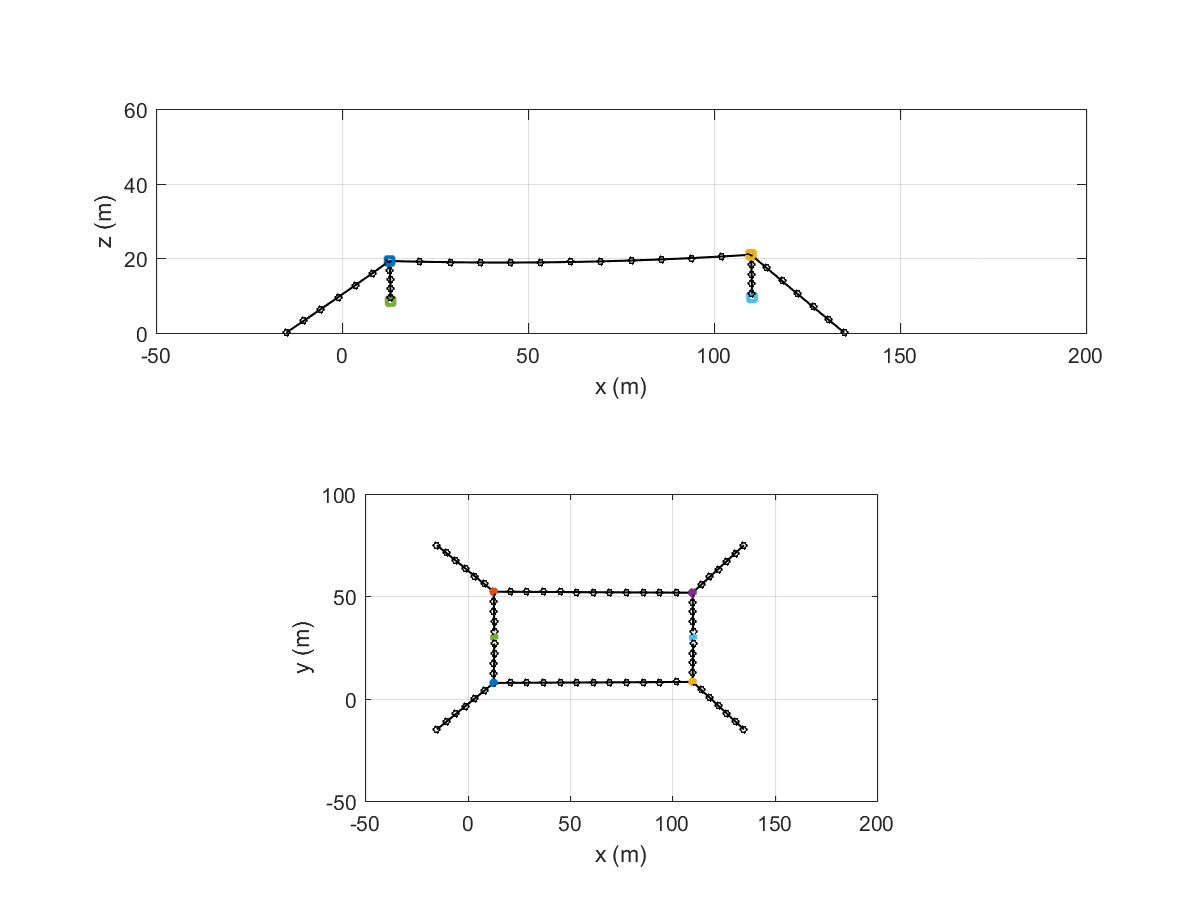
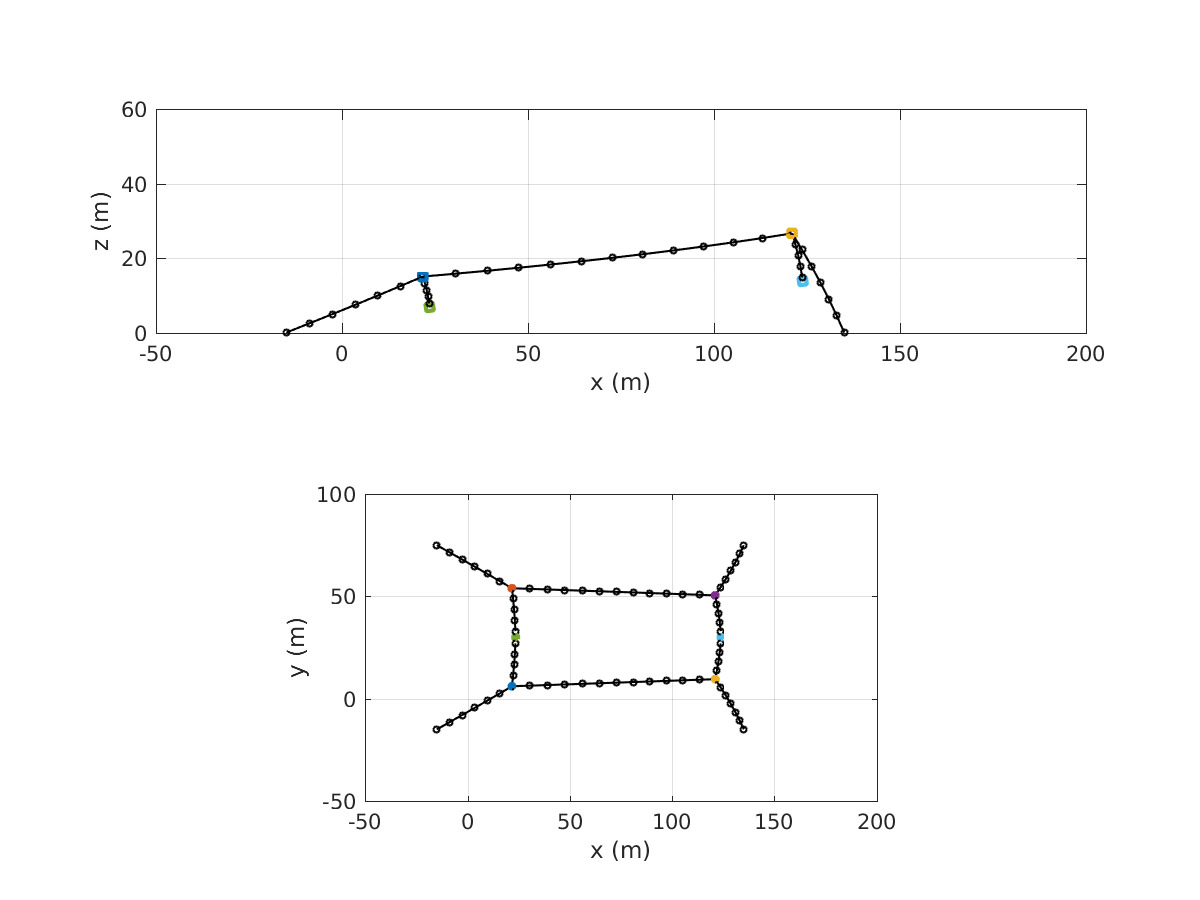
modify the angle used in the cosine correction to thrust forces

diff --git a/TargetFunctions/Forces/addCFD.m b/TargetFunctions/Forces/addCFD.m
@@ -25,7 +25,8 @@ for i = 1:size(BodiesThatAreTurbines,2)
     
     ThrustMagnitude = sqrt(ThrustFromCFD(i,1)^2+ThrustFromCFD(i,2)^2+ThrustFromCFD(i,3)^2);
     TorqueMagnitude = sqrt(TorqueFromCFD(i,1)^2+TorqueFromCFD(i,2)^2+TorqueFromCFD(i,3)^2);
-    
+    ThrustVector    = ThrustFromCFD(i,:)' ./ norm(ThrustFromCFD(i,:));
+
     % Angle between thrust vector and nominal turbine orientation
     CosTheta1 = dot(ThrustFromCFD(i,:)',TurbineBodyFixedFlowAxis)/ThrustMagnitude;
     
@@ -35,10 +36,26 @@ for i = 1:size(BodiesThatAreTurbines,2)
     % Angle between nominal turbine orientation and current turbine orientation
     CosTheta2 = dot(TurbineUnitVector,TurbineBodyFixedFlowAxis);
     
-    % Adjusted Thrust and Torque magnitudes
-    AdjThrust = CosTheta2*MaxThrust*TurbineUnitVector;
-    AdjTorque = CosTheta2*MaxTorque*TurbineUnitVector;
+    % Angle between initial turbine thrust unit vector (from the CFD
+    % calculation) and the iterating turbine unit vector (changing during the Newton solver)
+%     CosTheta3 = dot(ThrustVector, TurbineUnitVector);
+    CosTheta3 = max(dot(ThrustVector, TurbineUnitVector), 0);
     
+    % Adjusted Thrust and Torque magnitudes
+    AdjThrust = ThrustMagnitude*CosTheta3;
+    AdjTorque = TorqueMagnitude*CosTheta3;
+%     AdjThrust = CosTheta2*MaxThrust*TurbineUnitVector;
+%     AdjTorque = CosTheta2*MaxTorque*TurbineUnitVector;
+    
+
+%     eCFD(RowIndices(1:3)) = transpose(ThrustFromCFD(i,:));
+%     eCFD(RowIndices(4:6)) = transpose(TorqueFromCFD(i,:));
     eCFD(RowIndices(1:3)) = AdjThrust;
     eCFD(RowIndices(4:6)) = AdjTorque;
+    
+    % DEBUG
+%     if i==1
+%         fprintf(1,'DEBUG: %g %g %g %g %g %g \n',CosTheta1,CosTheta2,CosTheta3,ThrustMagnitude,MaxThrust,norm(AdjThrust));
+%     end
+    
 end

diff --git a/ConfigurationFiles/MezzanineConcept1Reduced.m b/ConfigurationFiles/MezzanineConcept1Reduced.m
@@ -12,7 +12,7 @@ DynamicModel = false;
 SlacklineConstraint = false;
 CFD = true;                                                 % use CFD to compute forces and velocities on mooring elements
 InletVelocity = [3.0; 0; 0];                                % the final inflow speed
-RampVel = 1.0;                                              % velocity increment until final speed (set to same as InletVelocity to skip the ramping steps)
+RampVel = 3.0;                                              % velocity increment until final speed (set to same as InletVelocity to skip the ramping steps)
 
 % CFD options
 OptionsCFD.graphics         = true;                         % turn off all matlab graphics and prompts (hide in background), when running on HPC

diff --git a/UWMooringDynamics_Chapter4.m b/UWMooringDynamics_Chapter4.m
@@ -305,7 +305,7 @@ if Mooring.CFD
             writeCFD_BC(Mooring,inflow_speed(j));
                 
             % run the CFD solver with the most recent positions of nodes, segments, and bodies
-            [probes,rotors] = run_starccm(probes,rotors,Mooring);  
+            [probes, rotors] = run_starccm(probes,rotors,Mooring);  
             % NOTE: this runs _main.java each iteration which is wasteful
             %       better if run _main on 1st iteration, then only need to
             %       run the "update" macros for 2nd iteration onwards
